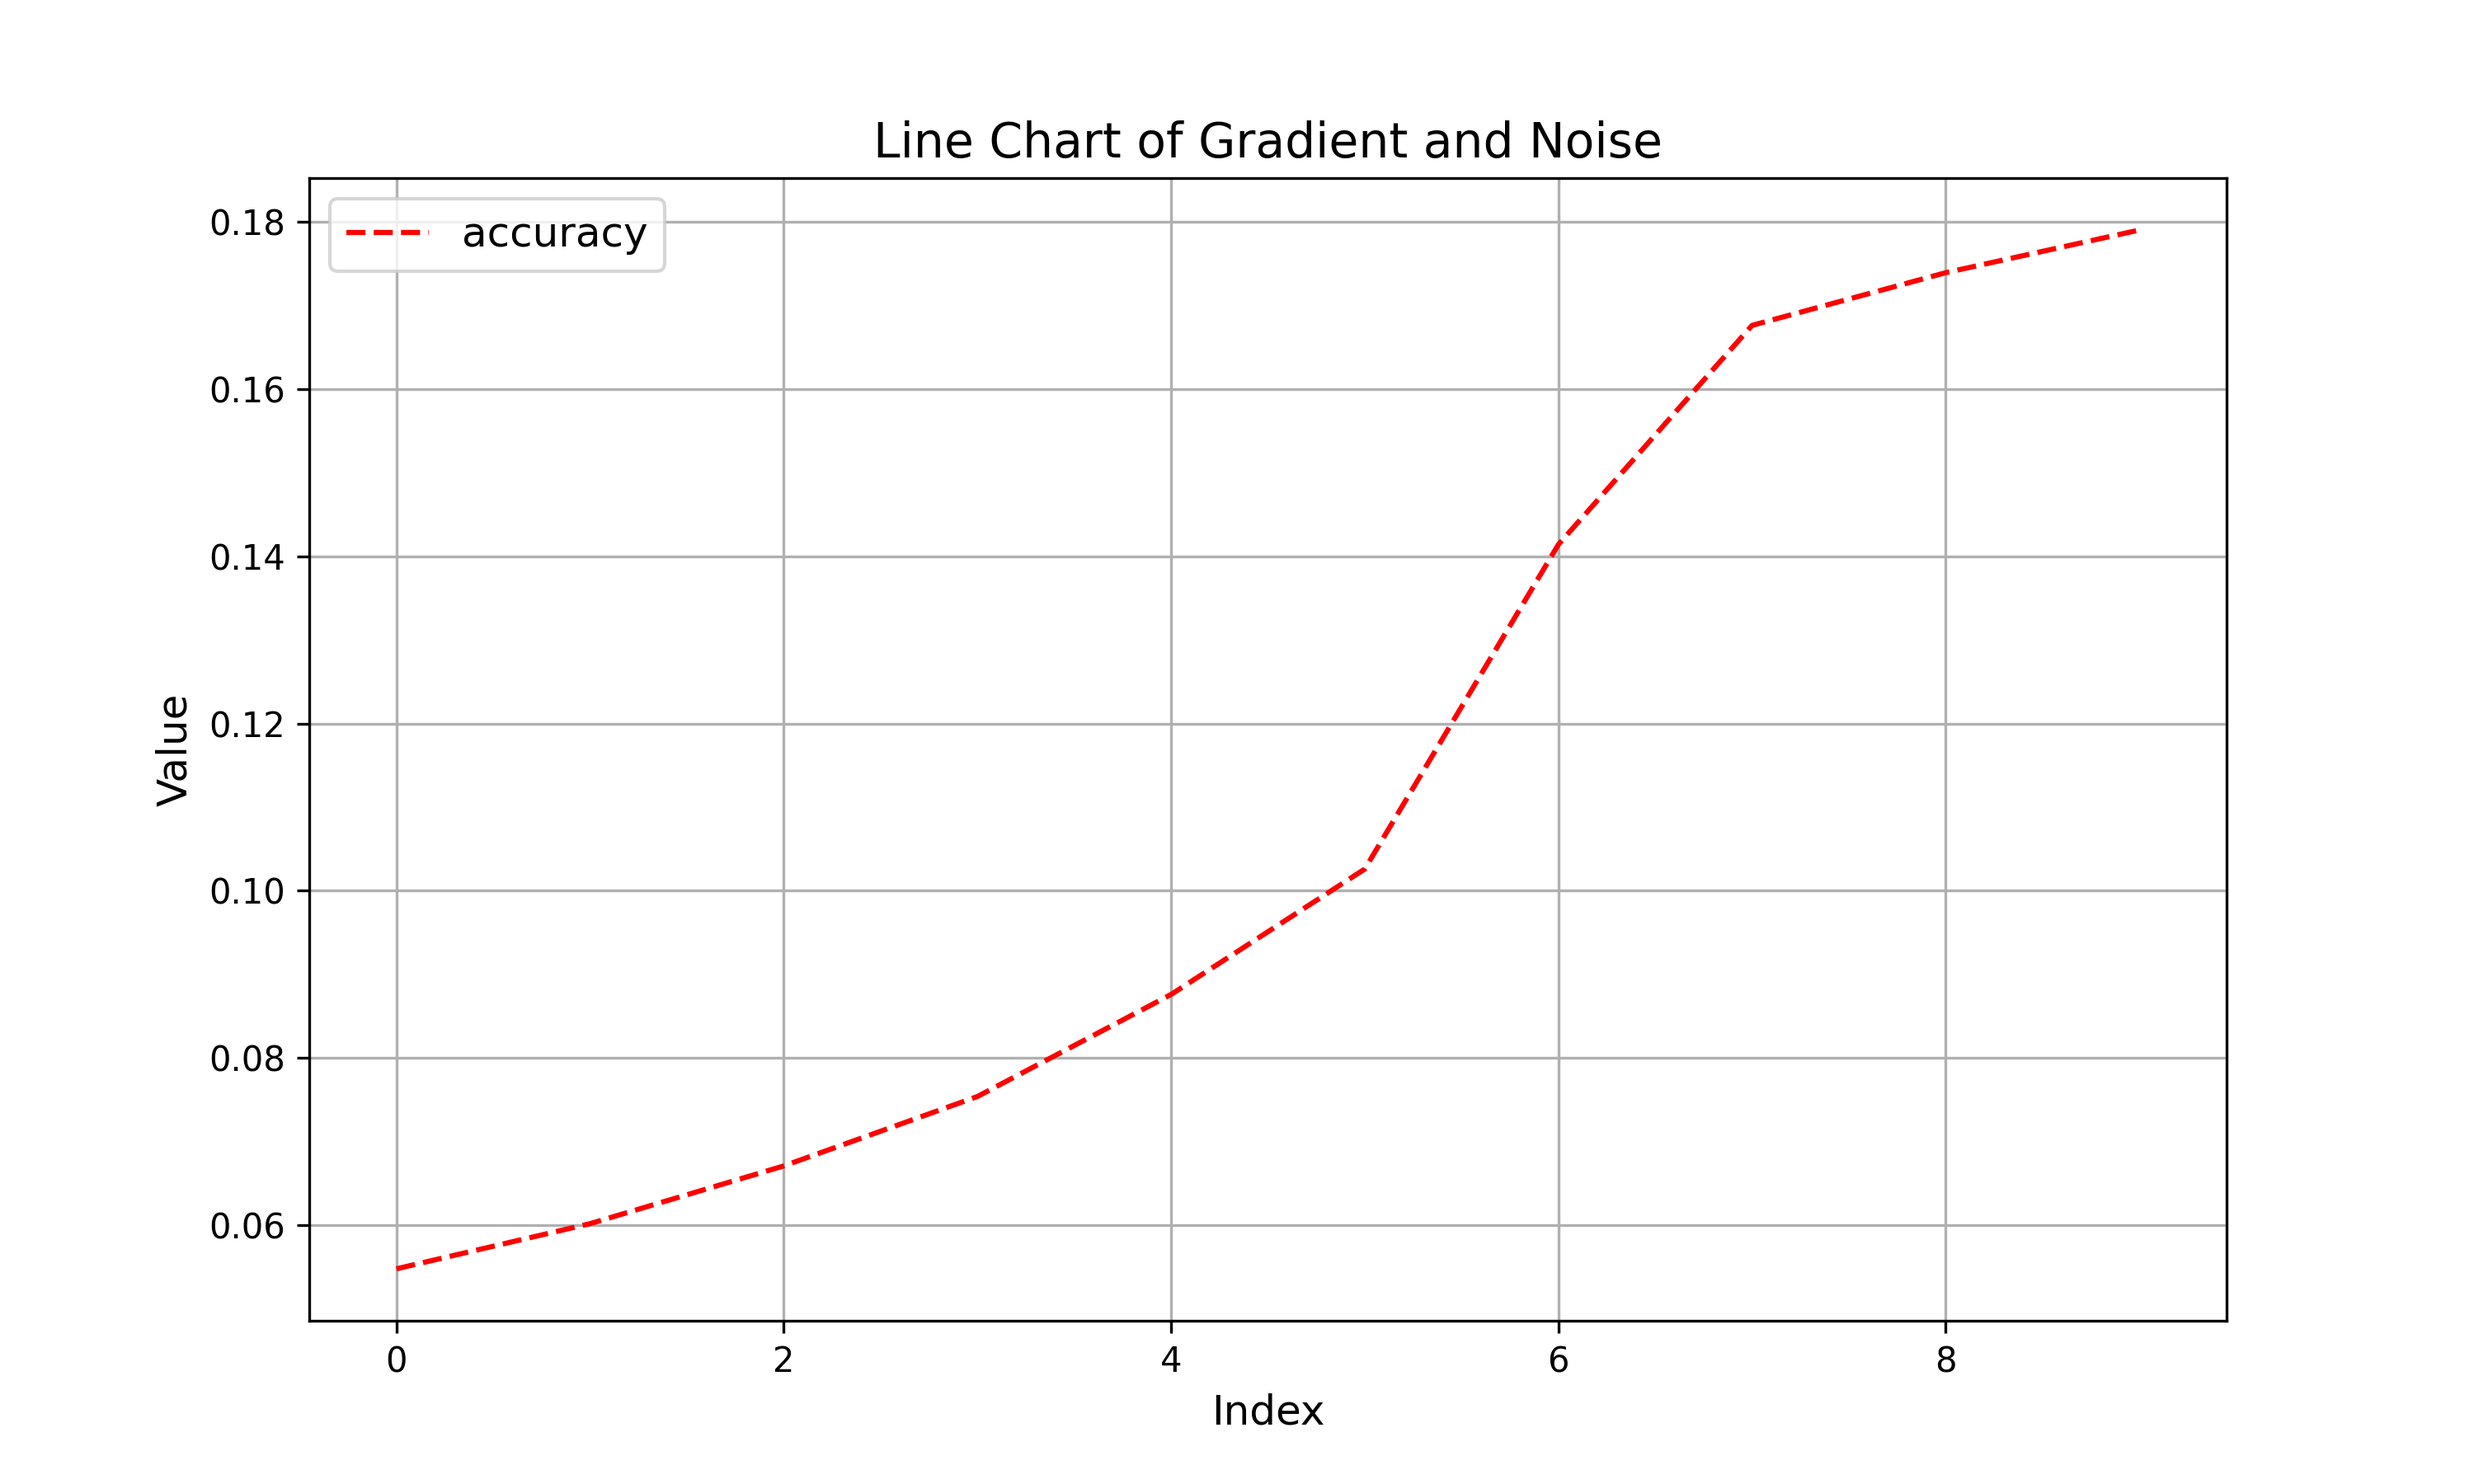
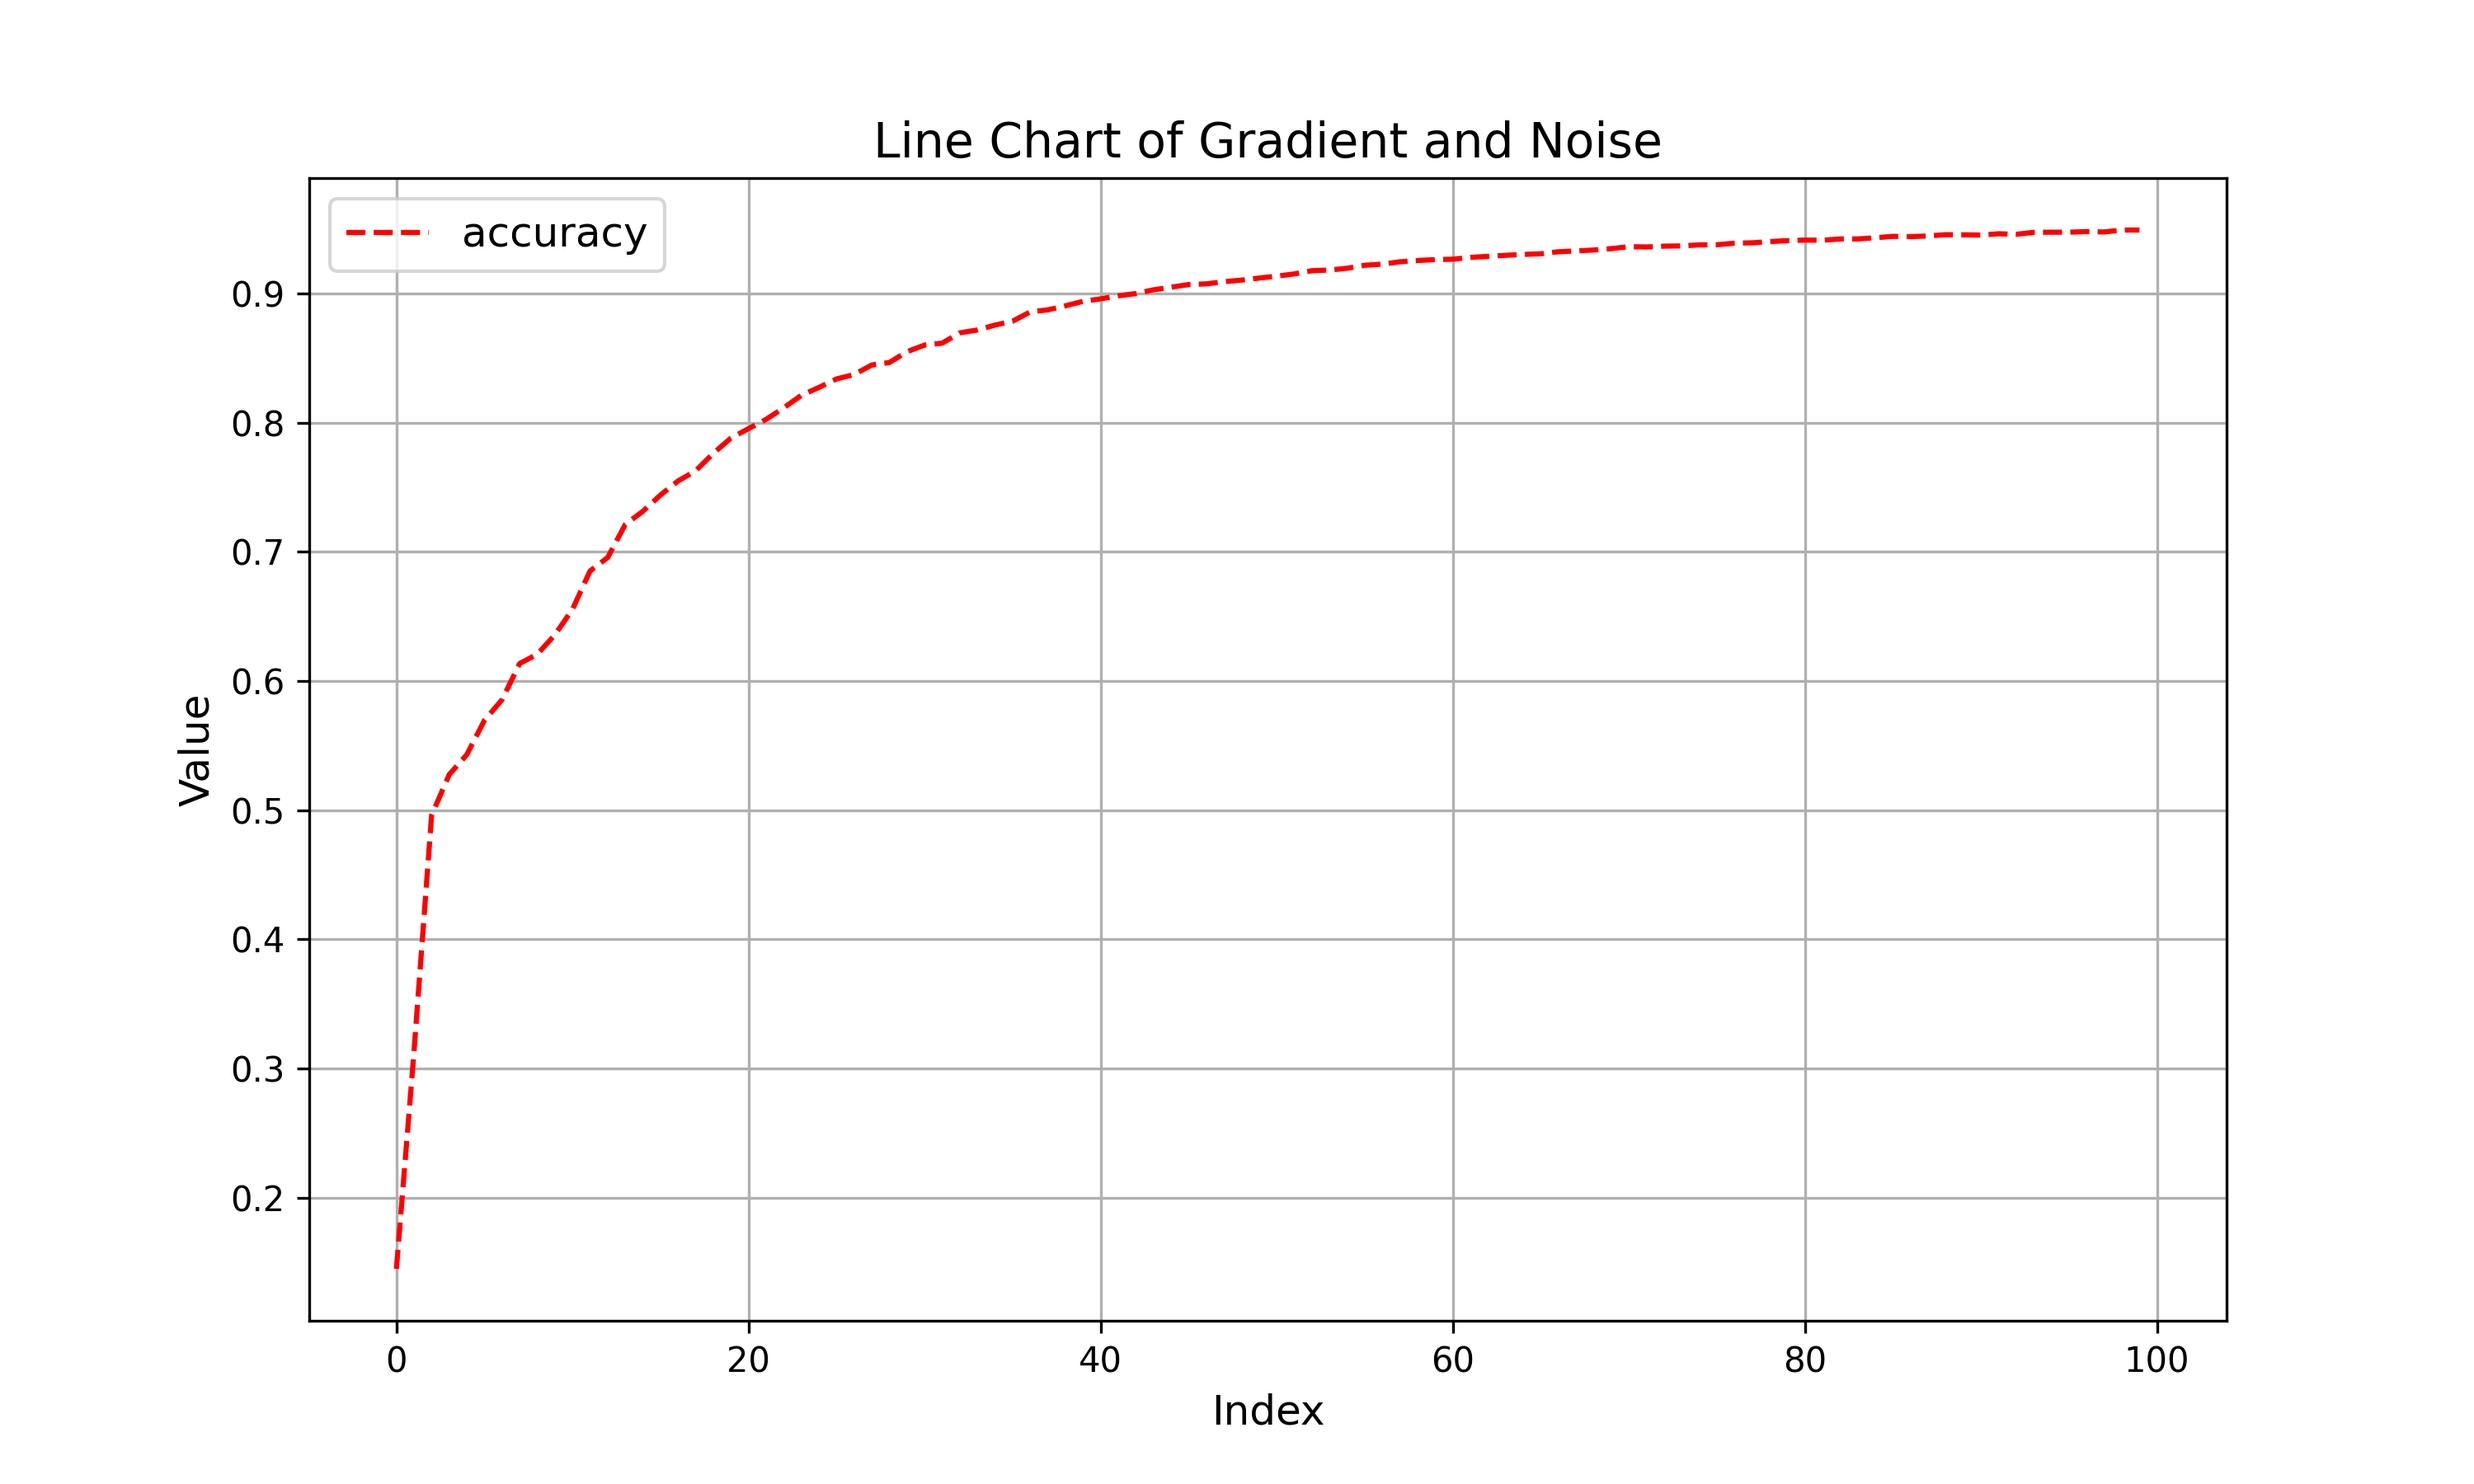
[exp] gaussian noise without decreasing noise

diff --git a/FLModel.py b/FLModel.py
@@ -19,7 +19,7 @@ class FLClient(nn.Module):
         2. Perform local training (compute gradients)
         3. Return local model (gradients) to server
     """
-    def __init__(self, model, output_size, data, lr, E, batch_size, q, clip, sigma, noise_level, noise_gamma, device=None):
+    def __init__(self, model, output_size, data, lr, E, batch_size, q, clip, sigma, noise_level, noise_gamma, fixed_sigma, device=None):
         """
         :param model: ML model's training process should be implemented
         :param data: (tuple) dataset, all data in client side is used as training data
@@ -46,6 +46,7 @@ class FLClient(nn.Module):
         # self.noise = []
         self.noise_level = noise_level
         self.noise_gamma = noise_gamma
+        self.fixed_sigma = fixed_sigma
 
         if model == 'scatter':
             self.model = ScatterLinear(81, (7, 7), input_norm="GroupNorm", num_groups=27).to(self.device)
@@ -98,7 +99,7 @@ class FLClient(nn.Module):
             # add Gaussian noise
             noise_ls = []
             for name, param in self.model.named_parameters():
-                noise = self.noise_level * gaussian_noise(clipped_grads[name], self.clip, self.sigma, device=self.device)
+                noise = self.noise_level * gaussian_noise(clipped_grads[name], self.clip, self.sigma, self.fixed_sigma, device=self.device)
                 # print(abs(noise/clipped_grads[name]).mean())
                 clipped_grads[name] += noise
                 # print(np.linalg.norm(clipped_grads[name].reshape(-1), 2).mean())
@@ -166,9 +167,9 @@ class FLServer(nn.Module):
         # compute noise using moments accountant
         # self.sigma = compute_noise(1, fl_param['q'], fl_param['eps'], fl_param['E']*fl_param['tot_T'], fl_param['delta'], 1e-5)
         
+        self.fixed_sigma = fl_param['fixed_sigma']
         # calibration with subsampeld Gaussian mechanism under composition 
-        # self.sigma = calibrating_sampled_gaussian(fl_param['q'], fl_param['eps'], fl_param['delta'], iters=fl_param['E']*fl_param['tot_T'], err=1e-3)
-        self.sigma = 0.6
+        self.sigma = fl_param['sigma'] if self.fixed_sigma else calibrating_sampled_gaussian(fl_param['q'], fl_param['eps'], fl_param['delta'], iters=fl_param['E']*fl_param['tot_T'], err=1e-3)
         print("noise scale =", self.sigma)
         
         
@@ -183,6 +184,7 @@ class FLServer(nn.Module):
                                  self.sigma,
                                  fl_param['noise_level'],
                                  fl_param['noise_gamma'],
+                                 fl_param['fixed_sigma'],
                                  self.device)
                         for i in range(self.client_num)]
         

diff --git a/test_cnn.py b/test_cnn.py
@@ -7,6 +7,7 @@ from torchvision import datasets, transforms
 import torch
 import numpy as np
 import os
+import pandas as pd
 
 # os.environ["CUDA_VISIBLE_DEVICES"] = "1"
 device = torch.device("cuda:0" if torch.cuda.is_available() else "cpu")
@@ -58,17 +59,19 @@ fl_param = {
     'model': MNIST_CNN,
     'data': d,
     'lr': lr,
-    'E': 5,
+    'E': 30,
     'C': 1,
     'eps': 4.0,
     'delta': 1e-5,
     'q': 0.01,
     'clip': 0.1,
-    'tot_T': 10,
+    'tot_T': 100,
     'batch_size': 128,
     'device': device,
     'noise_level': 0.1,
     'noise_gamma': 0.99,   # noise_level = noise_level * noise_gamma for every local epoch
+    'fixed_sigma': True,
+    'sigma' : 3
 }
 
 fl_entity = FLServer(fl_param).to(device)
@@ -83,6 +86,10 @@ for t in range(fl_param['tot_T']):
 
 # Generate x values (indices of the lists)
 x = list(range(len(acc)))
+
+dictt = {'accuracy': acc}
+df = pd.DataFrame(dictt)
+df.to_csv(f'./results/csv/gaussian_{fl_param["sigma"]*100}.csv')
 
 # Plot both lines
 plt.figure(figsize=(10, 6))  # Set the figure size

diff --git a/utils.py b/utils.py
@@ -35,11 +35,11 @@ def mnist_noniid(labels, num_users):
     return dict_users
 
 
-def gaussian_noise(data, s, sigma, device=None):
+def gaussian_noise(data, s, sigma, fixed_sigma, device=None):
     """
     Gaussian noise
     """
-    return torch.normal(0, data.reshape(-1).float().std(), data.shape).to(device)
+    return torch.normal(0, sigma if fixed_sigma else data.reshape(-1).float().std(), data.shape).to(device)
 
 def laplace_noise(data, s, sigma, device=None):
     """
